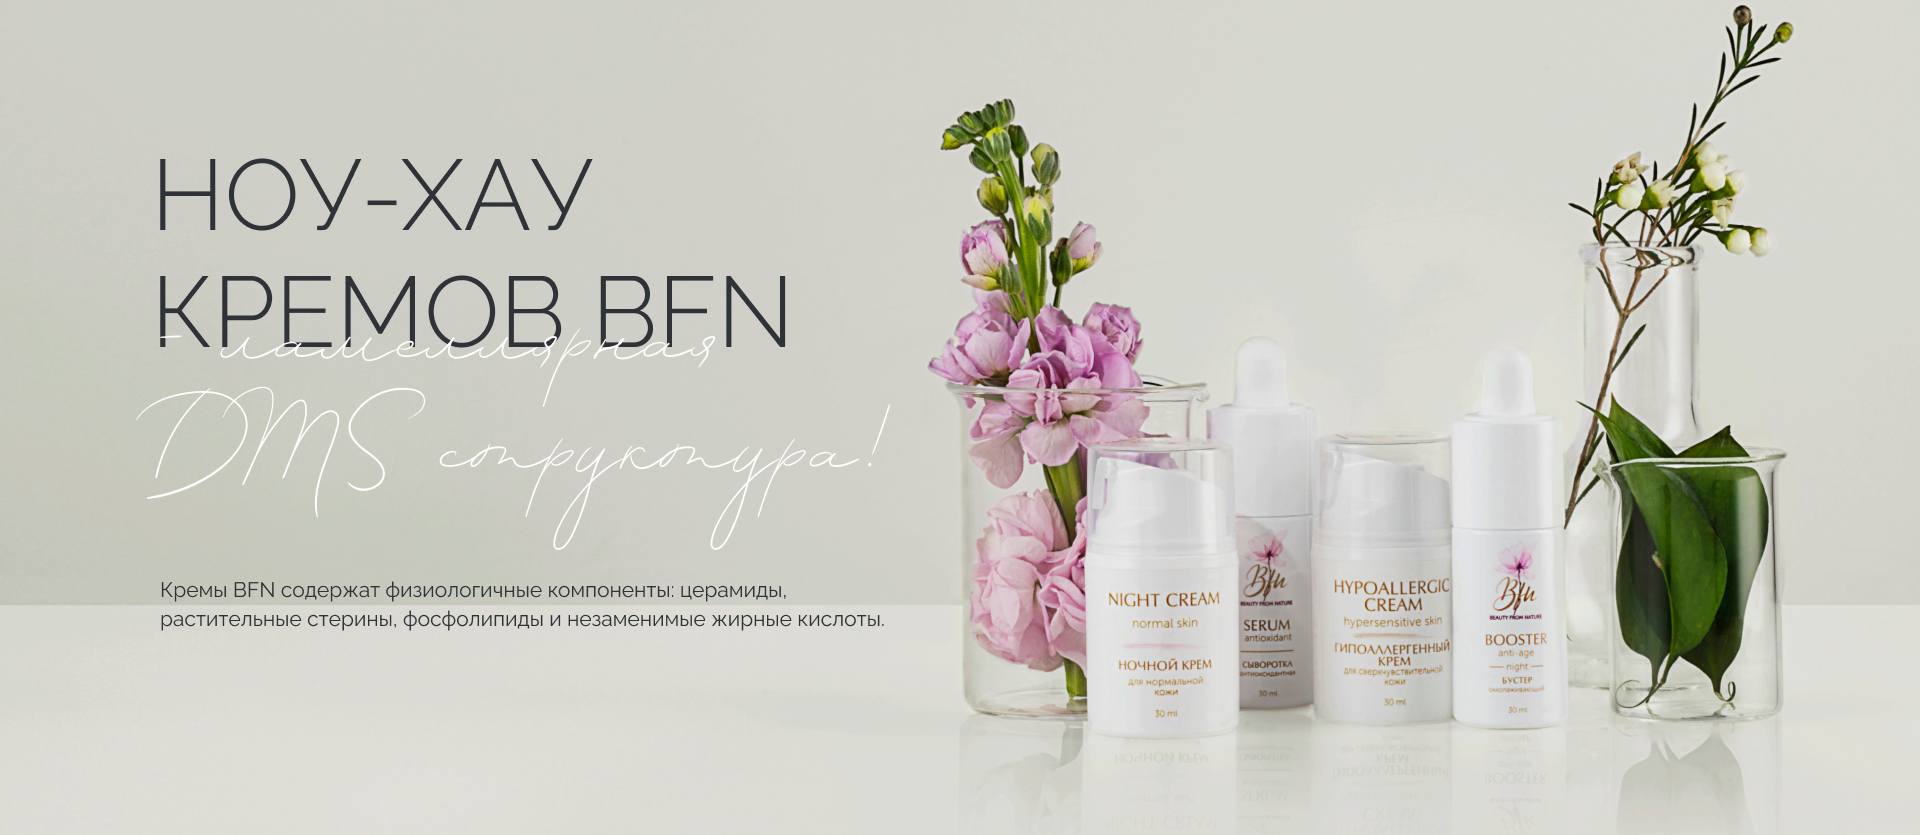
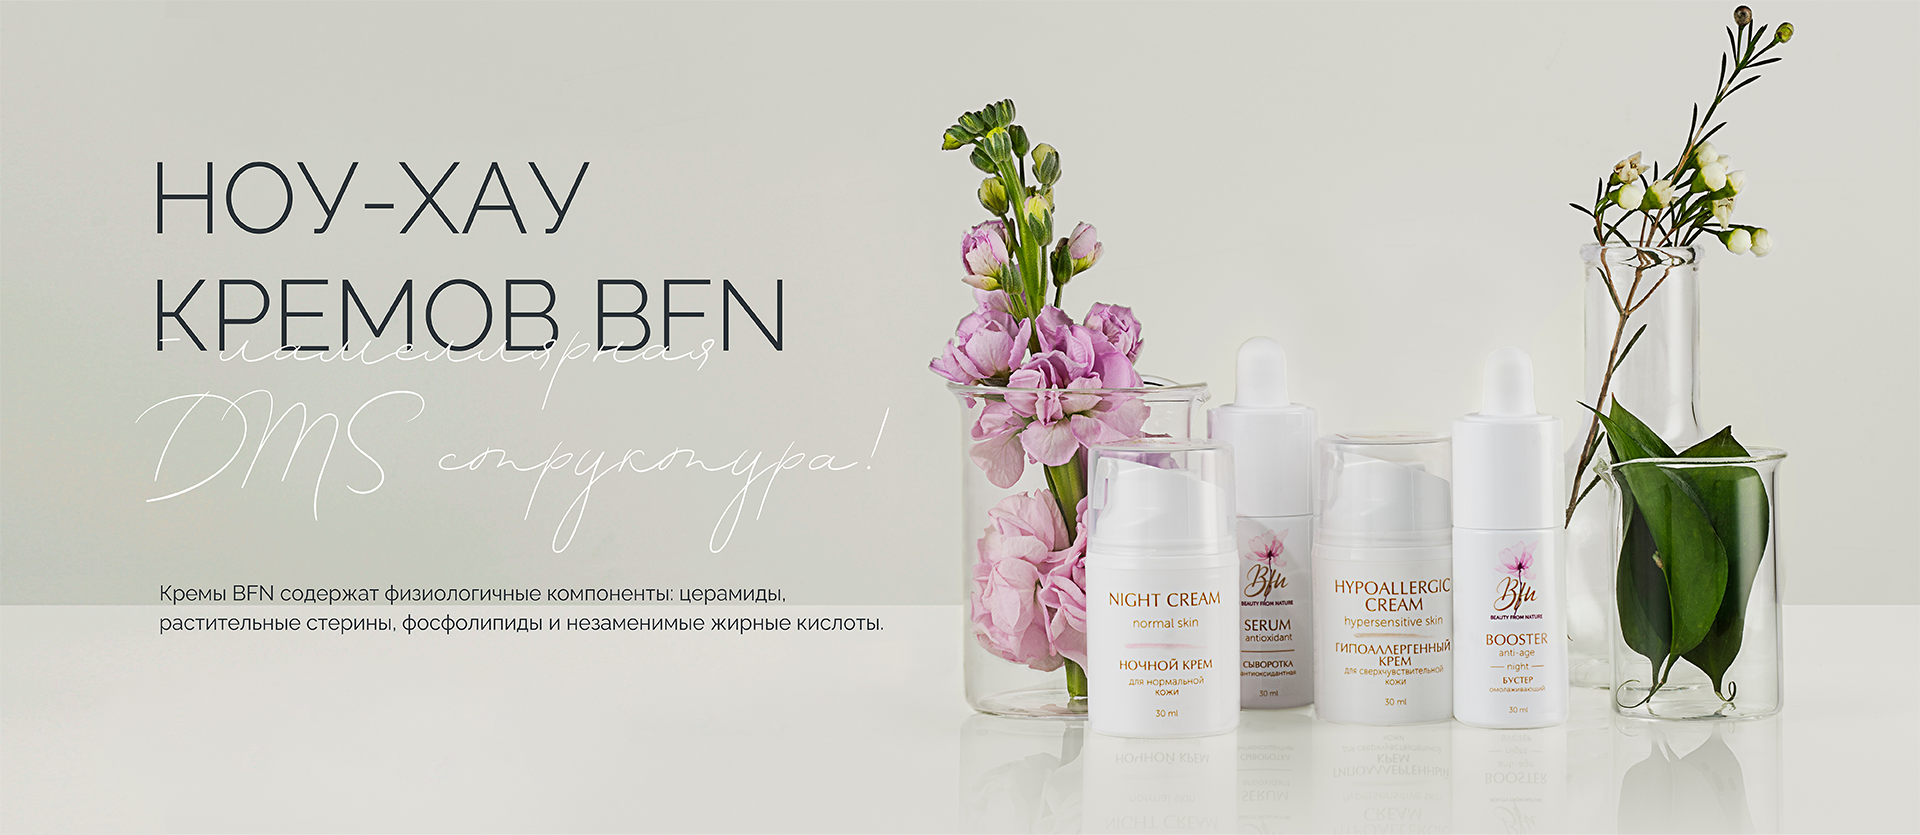
fix

diff --git a/src/features/statics-sections/pub/section-pick-up/section.module.scss b/src/features/statics-sections/pub/section-pick-up/section.module.scss
@@ -199,8 +199,8 @@
 	}
 	@media (min-width: #{$_media-table-desk}px) {
 		right: auto;
-		top: -11vw;
-		left: 5.4vw;
+		top: -15.2vw;
+		left: 5.1vw;
 	}
 	@include adaptive-set-all-media(
 		(
@@ -230,7 +230,7 @@
 	}
 	@media (min-width: #{$_media-table-desk}px) {
 		right: auto;
-		top: -12vw;
+		top: -15vw;
 		left: 9vw;
 	}
 	@include adaptive-set-all-media(
@@ -264,7 +264,7 @@
 		transform: rotate(0deg);
 		right: auto;
 		left: 2vw;
-		top: -6vw;
+		top: -10vw;
 	}
 	@include adaptive-set-all-media(
 		(
